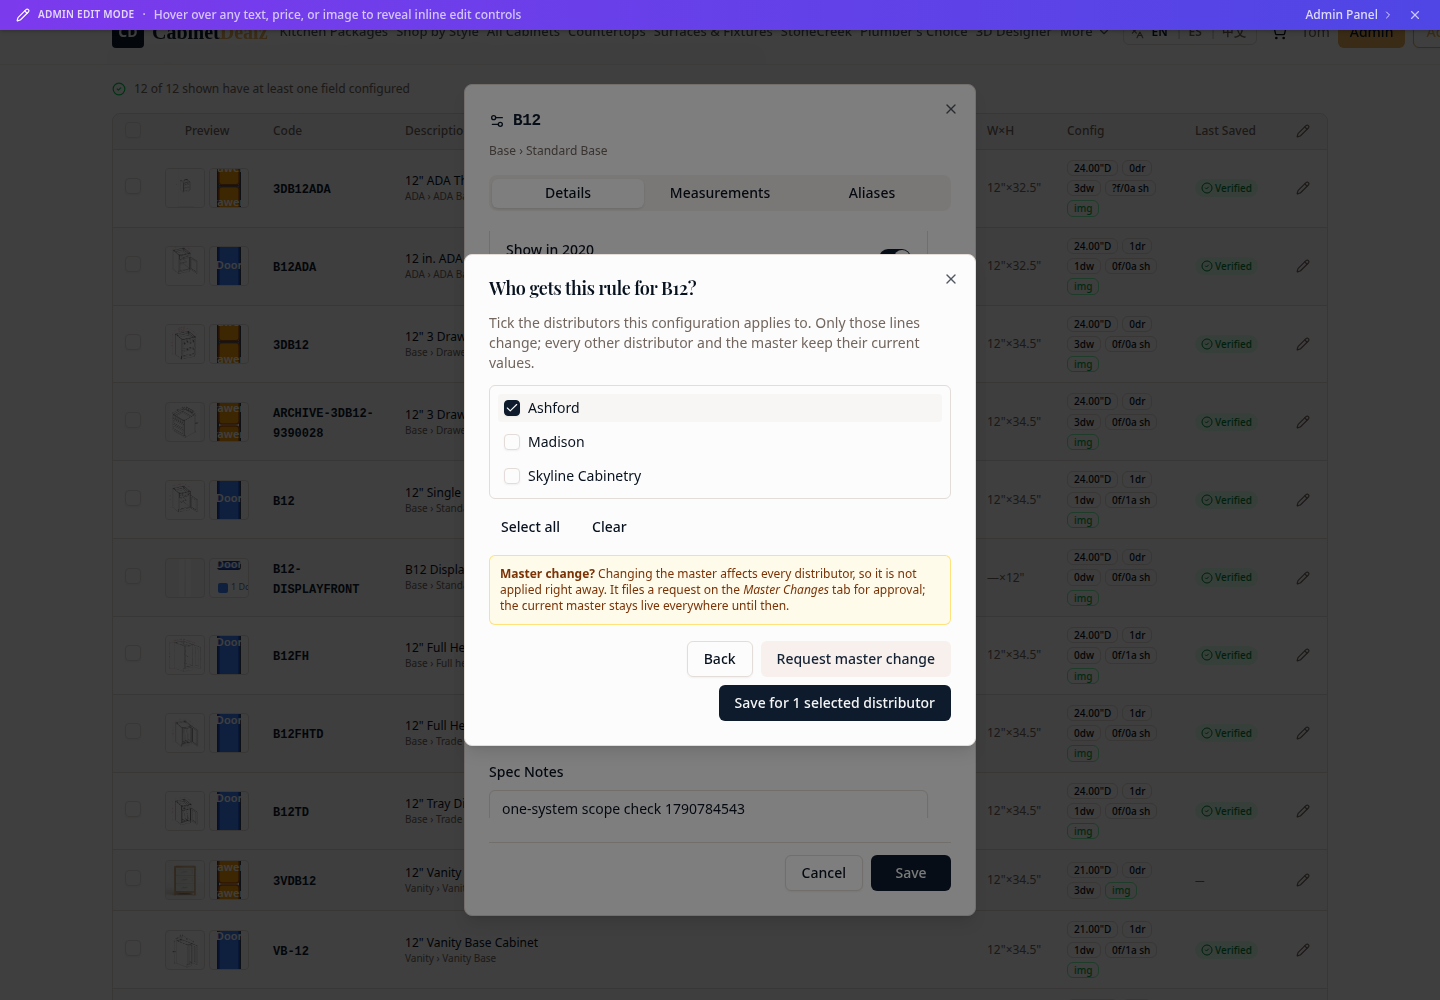
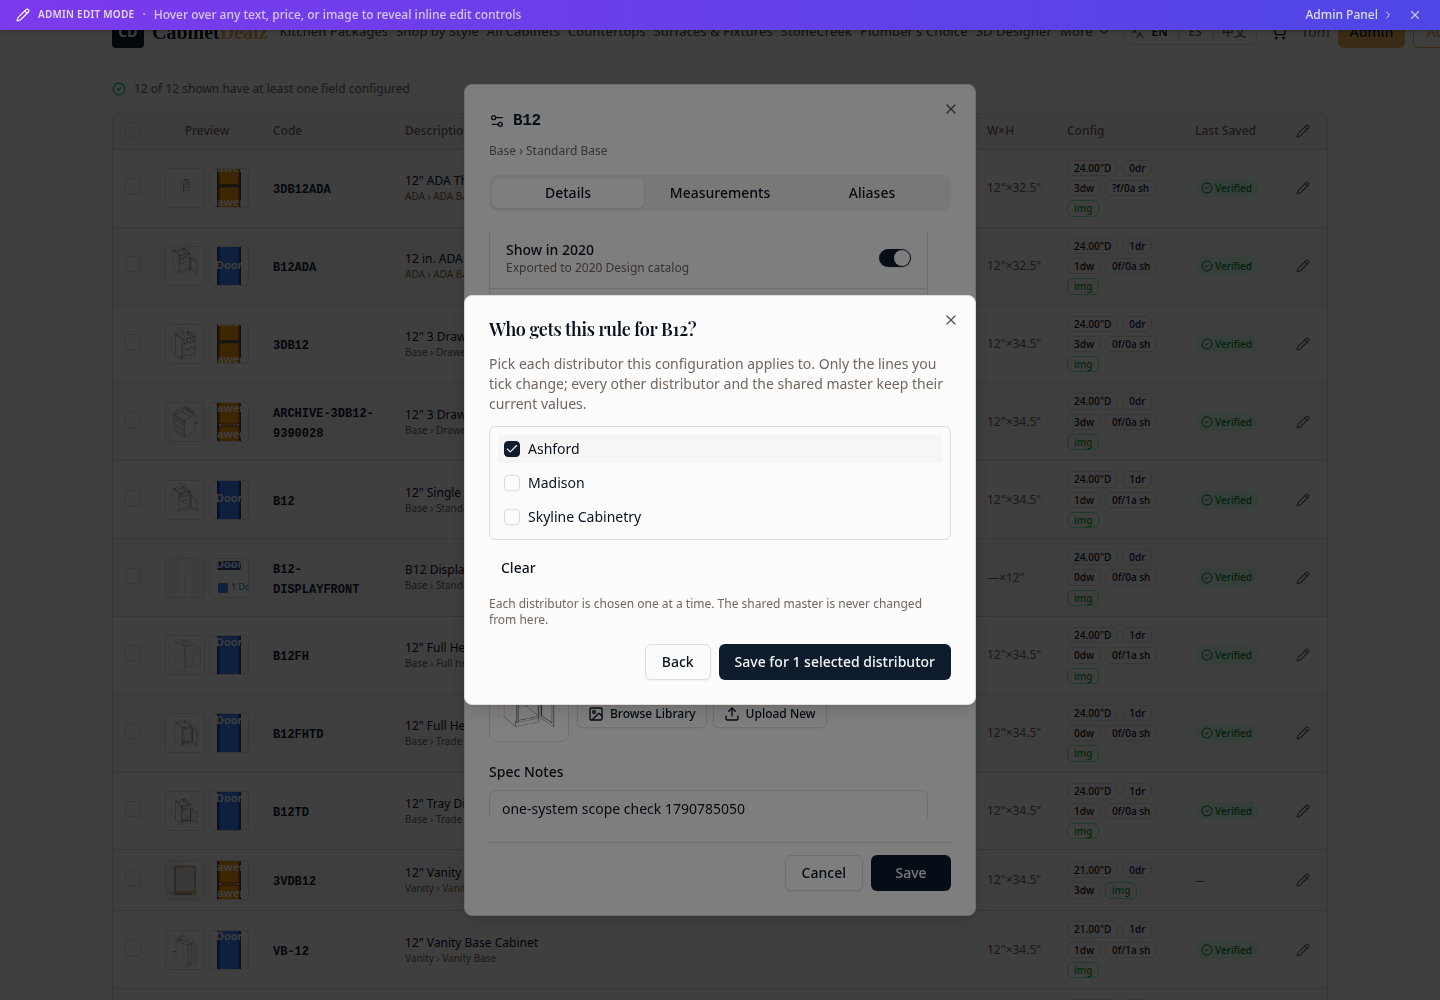
Checkpoint: Per user correction: the Cabinet Config save picker no longer offers Select all or Request master change, and the admin Master Changes tab is hidden. Saving a cabinet configuration applies only to the distributors ticked one at a time; the shared master row is never written from the edit

Changed region(s): [[0.3125, 0.248, 0.6875, 0.744]]

diff --git a/client/src/components/admin/CabinetConfigAdmin.tsx b/client/src/components/admin/CabinetConfigAdmin.tsx
@@ -901,23 +901,6 @@ function EditModal({
     },
     onError: (e) => toast.error(`Distributor save failed: ${e.message}`),
   });
-  const submitMasterChangeMutation = trpc.masterChanges.submit.useMutation({
-    onSuccess: (result) => {
-      utils.masterChanges.list.invalidate();
-      utils.masterChanges.counts.invalidate();
-      if (result.requestId == null) {
-        toast.info(result.message ?? "No master field changed.");
-      } else {
-        toast.success(
-          `Master change request #${result.requestId} filed (${result.changes} field${result.changes === 1 ? "" : "s"}). The current master stays live until it is approved on the Master Changes tab.`,
-        );
-      }
-      setScopeOpen(false);
-      setDraft({});
-      onClose();
-    },
-    onError: (e) => toast.error(`Could not file master change: ${e.message}`),
-  });
   const removeDistributorMutation = trpc.cabinets.adminRemoveCabinetDistributor.useMutation({
     onSuccess: (result) => {
       utils.cabinets.getDistributorsForCabinet.invalidate({ cabinetId: row.id });
@@ -1145,15 +1128,8 @@ function EditModal({
       config: buildConfigRule() as never,
     });
   };
-  const handleRequestMasterChange = () => {
-    submitMasterChangeMutation.mutate({
-      cabinetId: row.id,
-      sourceDistributorId: scopeDistributorIds.length === 1 ? scopeDistributorIds[0] : null,
-      proposed: buildConfigRule() as never,
-    });
-  };
 
-  const busy = uploading || generating || updateMutation.isPending || estimateMutation.isPending || removeDistributorMutation.isPending || setDistributorConfigMutation.isPending || submitMasterChangeMutation.isPending;
+  const busy = uploading || generating || updateMutation.isPending || estimateMutation.isPending || removeDistributorMutation.isPending || setDistributorConfigMutation.isPending;
   const depthVal = merged.depth ? String(parseFloat(merged.depth)) : "";
   const isStandardDepth = STANDARD_DEPTHS.includes(depthVal);
 
@@ -2124,8 +2100,8 @@ function EditModal({
             </DialogHeader>
             <div className="space-y-3 text-sm">
               <p className="text-muted-foreground">
-                Tick the distributors this configuration applies to. Only those lines change; every other
-                distributor and the master keep their current values.
+                Pick each distributor this configuration applies to. Only the lines you tick change; every
+                other distributor and the shared master keep their current values.
               </p>
               <div className="max-h-56 space-y-1.5 overflow-y-auto rounded-md border border-border p-2">
                 {distributorsForCabinet && distributorsForCabinet.length > 0 ? (
@@ -2151,30 +2127,17 @@ function EditModal({
                 )}
               </div>
               <div className="flex flex-wrap gap-2 text-xs">
-                <Button type="button" size="sm" variant="ghost" onClick={() => setScopeDistributorIds((distributorsForCabinet ?? []).map((d) => d.id))}>
-                  Select all
-                </Button>
                 <Button type="button" size="sm" variant="ghost" onClick={() => setScopeDistributorIds([])}>
                   Clear
                 </Button>
               </div>
-              <div className="rounded-md border border-amber-300/60 bg-amber-50 p-2.5 text-xs text-amber-900 dark:border-amber-500/40 dark:bg-amber-950/30 dark:text-amber-200">
-                <strong>Master change?</strong> Changing the master affects every distributor, so it is not applied
-                right away. It files a request on the <em>Master Changes</em> tab for approval; the current master
-                stays live everywhere until then.
-              </div>
+              <p className="text-xs text-muted-foreground">
+                Each distributor is chosen one at a time. The shared master is never changed from here.
+              </p>
             </div>
             <DialogFooter className="flex-row flex-wrap justify-end gap-2">
               <Button variant="outline" onClick={() => setScopeOpen(false)} disabled={busy}>
                 Back
-              </Button>
-              <Button
-                variant="secondary"
-                onClick={handleRequestMasterChange}
-                disabled={busy}
-                data-testid="cabinet-config-request-master"
-              >
-                {submitMasterChangeMutation.isPending ? <Spinner className="h-4 w-4" /> : "Request master change"}
               </Button>
               <Button
                 onClick={handleSaveForDistributors}

diff --git a/client/src/components/admin/AdminGroupedTabs.tsx b/client/src/components/admin/AdminGroupedTabs.tsx
@@ -136,7 +136,6 @@ const GROUPS = [
       { value: "merge-suggestions", label: "Merge Suggestions" },
       { value: "master-sku", label: "Master SKU Aliases" },
       { value: "cabinet-config", label: "Cabinet Config" },
-      { value: "master-changes", label: "✔ Master Changes" },
       { value: "package-data", label: "📦 Package Data & Parcel" },
       { value: "cabinet-attention", label: "⚠ Cabinet Attention" },
       { value: "unpriced-items", label: "⚠ Unpriced Items" },

diff --git a/todo-alvsvcze.md b/todo-alvsvcze.md
@@ -2880,3 +2880,4 @@
 - 2026-09-30 10:35 Corner-cabinet facing fix (user bug 09:45: corner upper on angled wall rendered door-to-wall). Root cause (audit 4.1/4.2): InteractiveRoom3D split corner facing three ways — threeDRoomFacingRotation mirrored only L-shape bodies and passed diagonal/triangle/corner-drawer through un-mirrored, existingCabinetTransform pre-rotated legacy diagonals with diagonalCornerRoomRotation, and a seated corner body on a run took the raw saved rotation without resolving the front axis from the run. Fix in shared code only: one rule for every corner kind (seated body → axis from the run's facing then threeDPlanRotation; legacy run-less body → threeDPlanRotation of the inferred corner turn); diagonalCornerRoomRotation removed; design.ts cornerRotationForPlaced now asks the shared corner seat on the cabinet's own run (any wall kind) before rectangle inference. New client/src/lib/oneEngineCornerFacing.test.ts (18 tests: WDC2442/WER2430/ERB36/CDB36 at 90° and 45° corners, standard and Wall Builder rooms, all four orientations of the Gemini fixture room) — 4 of them fail at the previous HEAD and pass now. Full suite: 0 client regressions vs baseline; 3 server-only diffs unrelated (2 consult AI timeouts, design.placeable AW subCategory now "Angle wall" in the live catalog — DB data, not code). tsc clean, build OK, diff --check OK. Screenshots docs/proofs/corner-facing-{before,fixed}-3d.png. Not changed: BER33 catalog 33x33 vs 36" rendered L box offset on angled walls (pre-existing, separate issue, user to decide).
 
 - 2026-09-30 11:10 Cabinet Config per-distributor save (user 10:40 + Master Changes approval flow 10:49). Save in the Cabinet Config editor now opens "Who gets this rule for <code>?" — tick only the distributors that carry the cabinet; only those lines get the rule (`distributor_cabinet_overrides.configJson`, merged at read time in `design.placeableCabinets` via shared `server/lib/distributorCabinetConfig.ts`; master row and other distributors untouched; price/SKU keys excluded by schema). "Request master change" files a pending row in `cabinet_master_change_requests` shown on the new admin Products & Catalog → Master Changes tab: side-by-side current/proposed, affected distributors with fit warnings, Approve (all) / Edit then approve / Apply to one distributor / Reject with note; History with Undo inside 5-day revert window. Migrations 0165/0166 applied via webdev_execute_sql. Validation: `server/masterChanges.test.ts` 7/7 (self-cleaning, master verified unchanged), tsc clean, build OK, diff --check OK; local admin browser check (/tmp/master_changes_check.py): scope picker (3 distributors, Save disabled until tick), request filed → pending card → rejected → history; master B12 specNotes verified unchanged; test rows deleted. Proofs: docs/proofs/cabinet-config-save-scope-picker.png, master-changes-pending-card.png, master-changes-history.png. No pricing/catalog data changed.
+- 2026-09-30 11:18 User correction (11:13): no all-at-once path. Removed "Select all", the master-change notice and "Request master change" from the Cabinet Config save picker, and hid the admin Master Changes tab. Save now applies only to distributors ticked one at a time (Clear only helper); the shared master is never written from the editor. Server router/table left in place but unreachable from the UI. tsc clean, build OK, diff OK; local admin browser check: picker shows 3 distributors, Save disabled until a tick, "Save for 1 selected distributor", select_all_present=false, request_master_present=false, Master Changes tab not visible. Proof: docs/proofs/cabinet-config-save-scope-picker.png.
